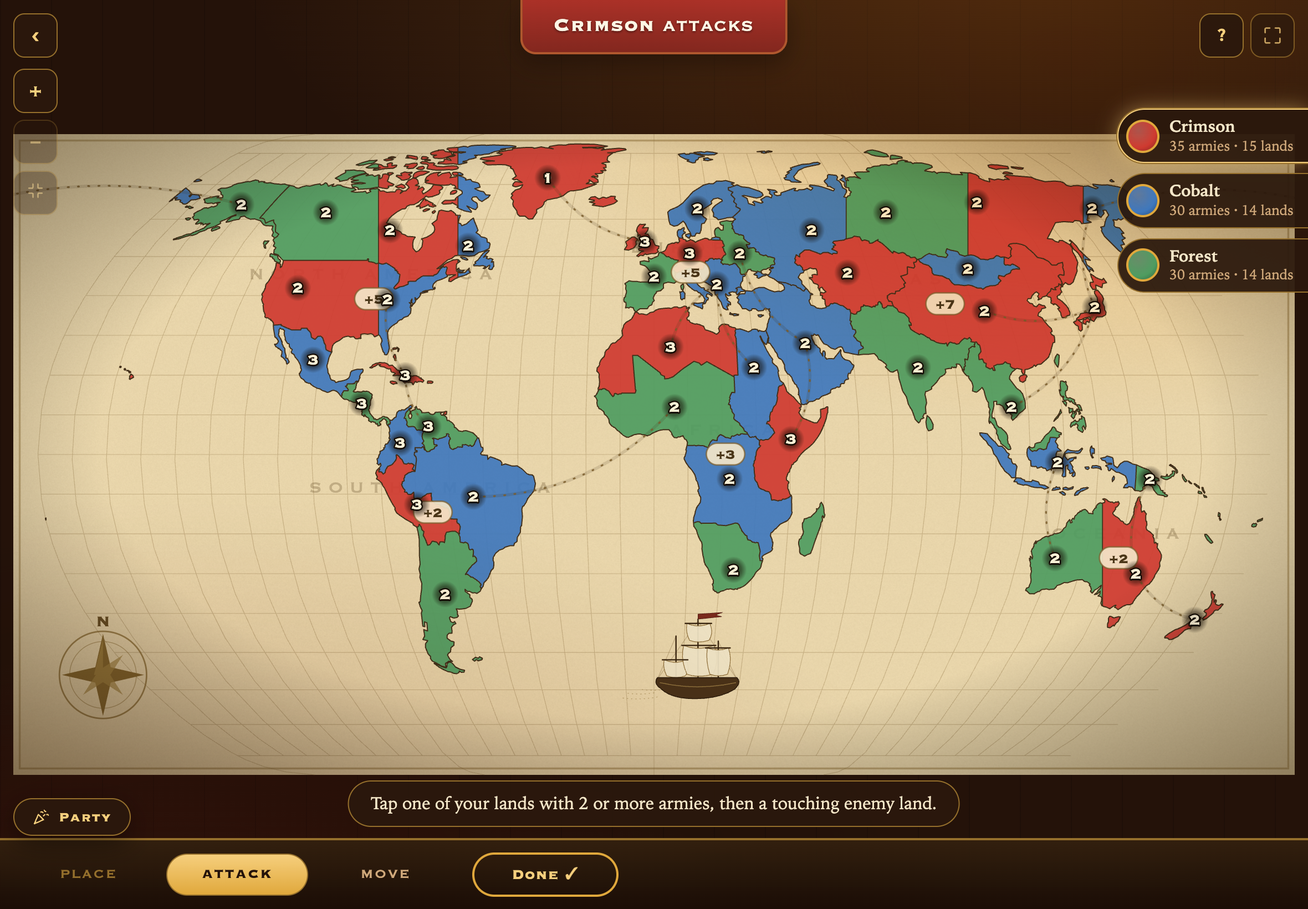
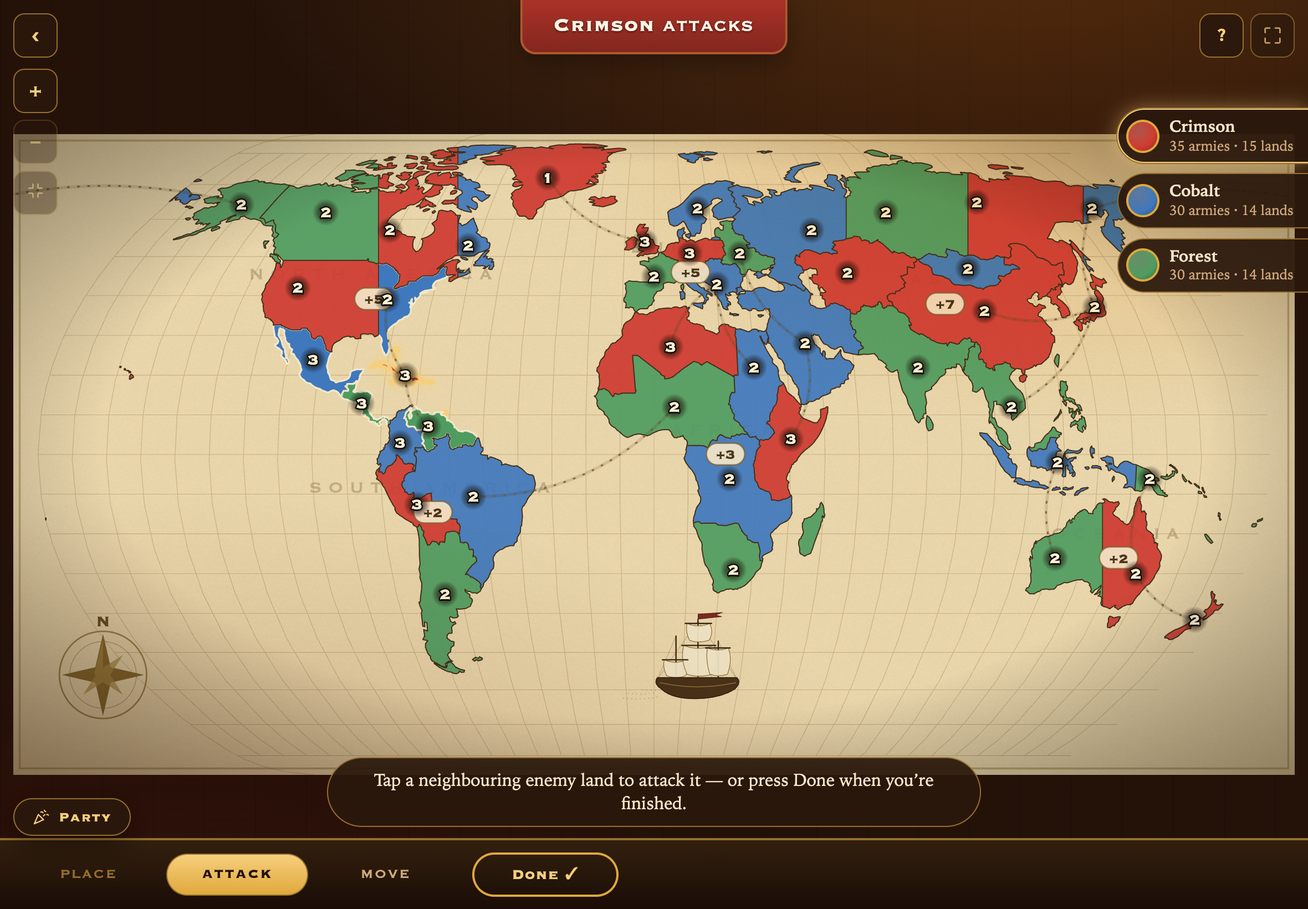
feat(risk): the chosen land reads from across the table
The family asked for a more obvious active territory. The selected
land now wears a thicker brass boundary (2.6 -> 3.2px), a warm
lantern drop-shadow glow, and - motion permitting - surveyor's
marching ants crawling the border. The ants follow the house
animation budget (steps(6) over 1.3s, ~4.6 repaints/s, paused while
a pan gesture is in flight), their dash lengths are screen pixels
via non-scaling-stroke so the pace is zoom-independent, and
reduced-motion generals still get the glow and heavy stroke.

The board screenshots now capture the mid-attack state: the shot
prep selects a land after reaching the attack phase, so the brass
ants and the pale target strokes are part of the reviewed picture.

Gates on bare exit codes: check 0, vitest 0 (568/568), build 0;
risk screenshots regenerated.

Claude-Session: https://claude.ai/code/session_0146VWPAYsAFebJ5DNhYKXg7

diff --git a/src/games/risk/styles/risk.css b/src/games/risk/styles/risk.css
@@ -148,9 +148,21 @@
 }
 /* These widths are screen pixels too, since .risk-terr sets non-scaling-stroke. */
 .risk-terr.target { stroke: #f2e8ca !important; stroke-width: 1.6; fill-opacity: 1; }
+/* The chosen land must read from across the table: a thick brass boundary
+   with a warm lantern glow, and (motion permitting) surveyor's marching
+   ants crawling the border. Reduced-motion generals still get the glow. */
 .risk-terr.sel {
-  stroke: var(--brass-hi) !important; stroke-width: 2.6; fill-opacity: 1;
+  stroke: var(--brass-hi) !important; stroke-width: 3.2; fill-opacity: 1;
+  filter: drop-shadow(0 0 5px rgba(246, 207, 125, 0.9));
 }
+/* Dash lengths are screen px (non-scaling-stroke), so the ants march at the
+   same pace at any zoom. steps(6) over 1.3s ≈ 4.6 repaints/s — the house
+   idle-animation budget — and they halt while a pan gesture is in flight. */
+@media (prefers-reduced-motion: no-preference) {
+  .risk-terr.sel { stroke-dasharray: 8 5; animation: risk-sel-march 1.3s steps(6) infinite; }
+}
+.risk-svg.panning .risk-terr.sel { animation-play-state: paused; }
+@keyframes risk-sel-march { to { stroke-dashoffset: -13; } }
 /* Territories are keyboard-operable buttons: focus lights the land itself
    with a brass stroke and glow. No `outline` — on an SVG path the browser
    draws that as the bounding BOX, a giant rounded rectangle over the map. */
